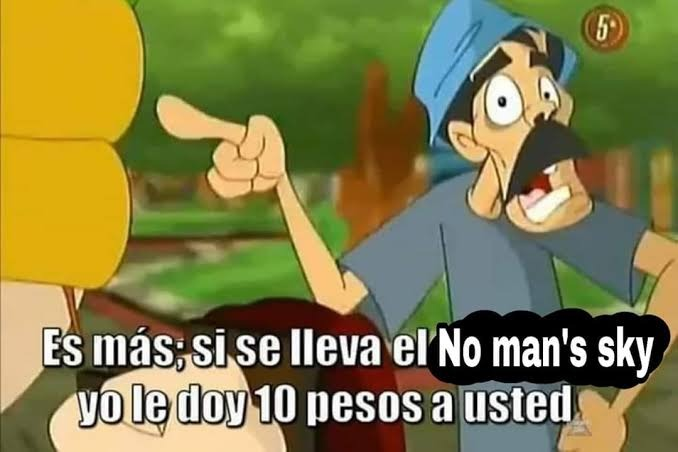
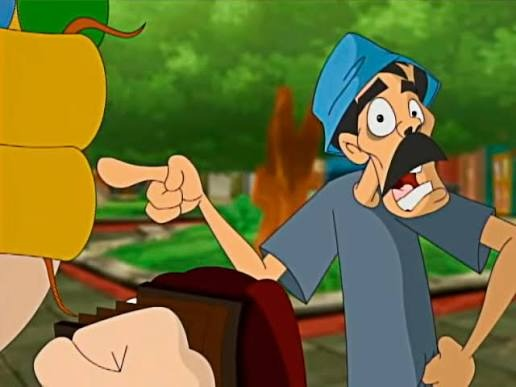
Use clean Don Ramon template with text below image truncated at uvas

diff --git a/index.html b/index.html
@@ -249,39 +249,32 @@
     }
 
     /* Don Ramón Meme Card */
-    .meme-wrapper {
-      position: relative;
-      border-radius: 22px;
+    .meme-card {
+      border-radius: 24px;
       overflow: hidden;
       margin-bottom: 24px;
-      box-shadow: 0 6px 20px rgba(0, 0, 0, 0.08);
       border: 1px solid var(--border);
-      background: #000;
+      background: var(--bg);
+      box-shadow: 0 4px 16px rgba(0, 0, 0, 0.05);
     }
 
     .meme-img {
       width: 100%;
       display: block;
-      max-height: 250px;
+      max-height: 260px;
       object-fit: cover;
     }
 
-    .meme-subtitle {
-      position: absolute;
-      bottom: 12px;
-      left: 12px;
-      right: 12px;
-      background: rgba(0, 0, 0, 0.82);
-      color: #ffffff;
-      padding: 10px 14px;
-      border-radius: 12px;
-      font-size: 0.88rem;
+    .meme-quote {
+      padding: 16px 18px;
+      font-size: 0.96rem;
       font-weight: 600;
-      line-height: 1.35;
+      color: var(--text-main);
       text-align: center;
-      backdrop-filter: blur(4px);
-      border: 1px solid rgba(255, 255, 255, 0.15);
-      letter-spacing: 0.2px;
+      line-height: 1.45;
+      font-style: italic;
+      background: var(--bg);
+      border-top: 1px solid var(--border);
     }
 
     /* Buttons */
@@ -457,10 +450,10 @@
         <h2>Una última propuesta</h2>
         <p class="lead" style="margin-bottom: 18px;">Para que veas que la negociación va en serio:</p>
 
-        <div class="meme-wrapper">
-          <img src="img/donramon.jpg" alt="Meme Don Ramón" class="meme-img">
-          <div class="meme-subtitle">
-            "Es más; si aceptas que volvamos a hablar, yo te traigo uvas o fresas seguido jjskjsksj"
+        <div class="meme-card">
+          <img src="img/donramon.jpg" alt="Don Ramón" class="meme-img">
+          <div class="meme-quote">
+            "Es más; si aceptas que volvamos a hablar, yo te traigo uvas"
           </div>
         </div>
 
@@ -503,7 +496,7 @@
           </div>
           <div class="perk-item">
             <span class="check-icon">✓</span>
-            <span>Suministro de uvas o fresas</span>
+            <span>Suministro de uvas</span>
           </div>
         </div>
 
@@ -573,7 +566,7 @@
       "¿Segura?",
       "Ni el búho de Duolingo es tan rencoroso...",
       "Ese botón tiene lag, mejor pícale al otro.",
-      "¿Ni por las uvas o fresas?",
+      "¿Ni por las uvas?",
       "¿Ni por ganar con Yoshi negro?",
       "Piénsalo bien...",
       "Ese botón no colabora...",
